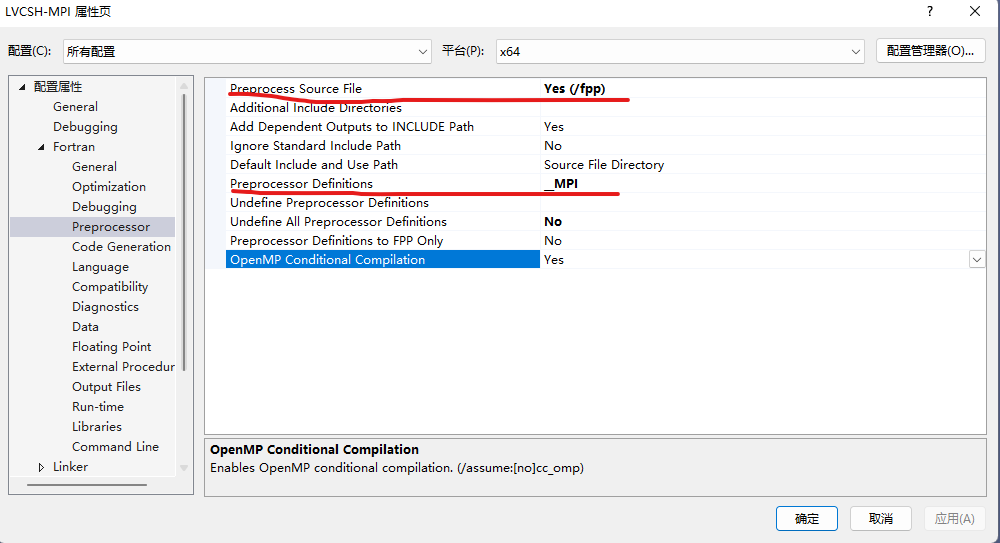
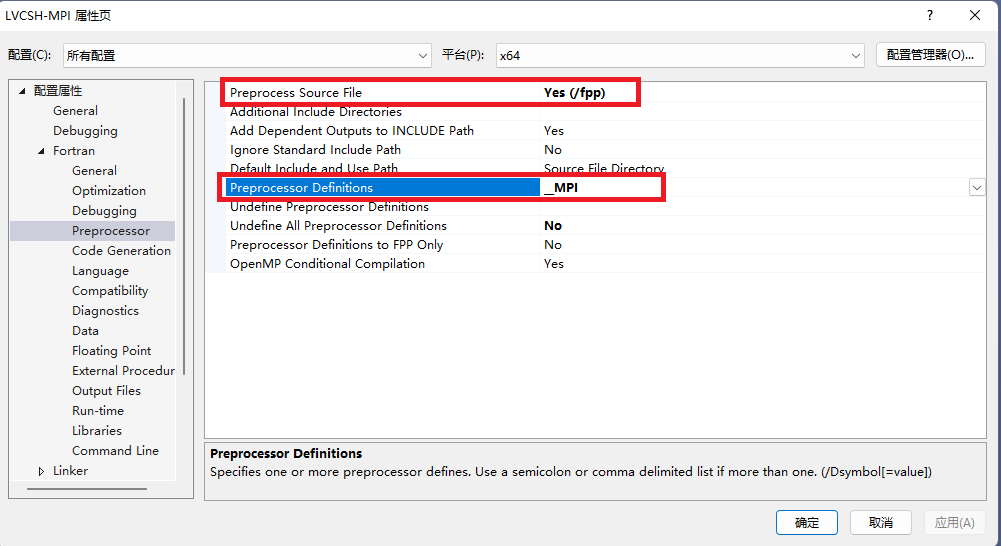
update VS-define

Changed region(s): [[0.0, 0.0, 1.0, 1.0]]

diff --git a/_posts/2022-08-22-Fortran-Preprocess.md b/_posts/2022-08-22-Fortran-Preprocess.md
@@ -93,7 +93,7 @@ Program www_fcode_cn
 End Program www_fcode_cn
 ```
 
-在Visual Studio中宏定义可以在代码中设置，或者在工程文件属性中设置：
+在Visual Studio中宏定义可以在代码中设置，或者在工程文件属性`Preprocessor Definitions`中设置：
 ![VS-define][4]
 
 但是，由于预处理常量的存在，使得将来 N 修改为其他数值，如 `#define N 30` 更容易。
